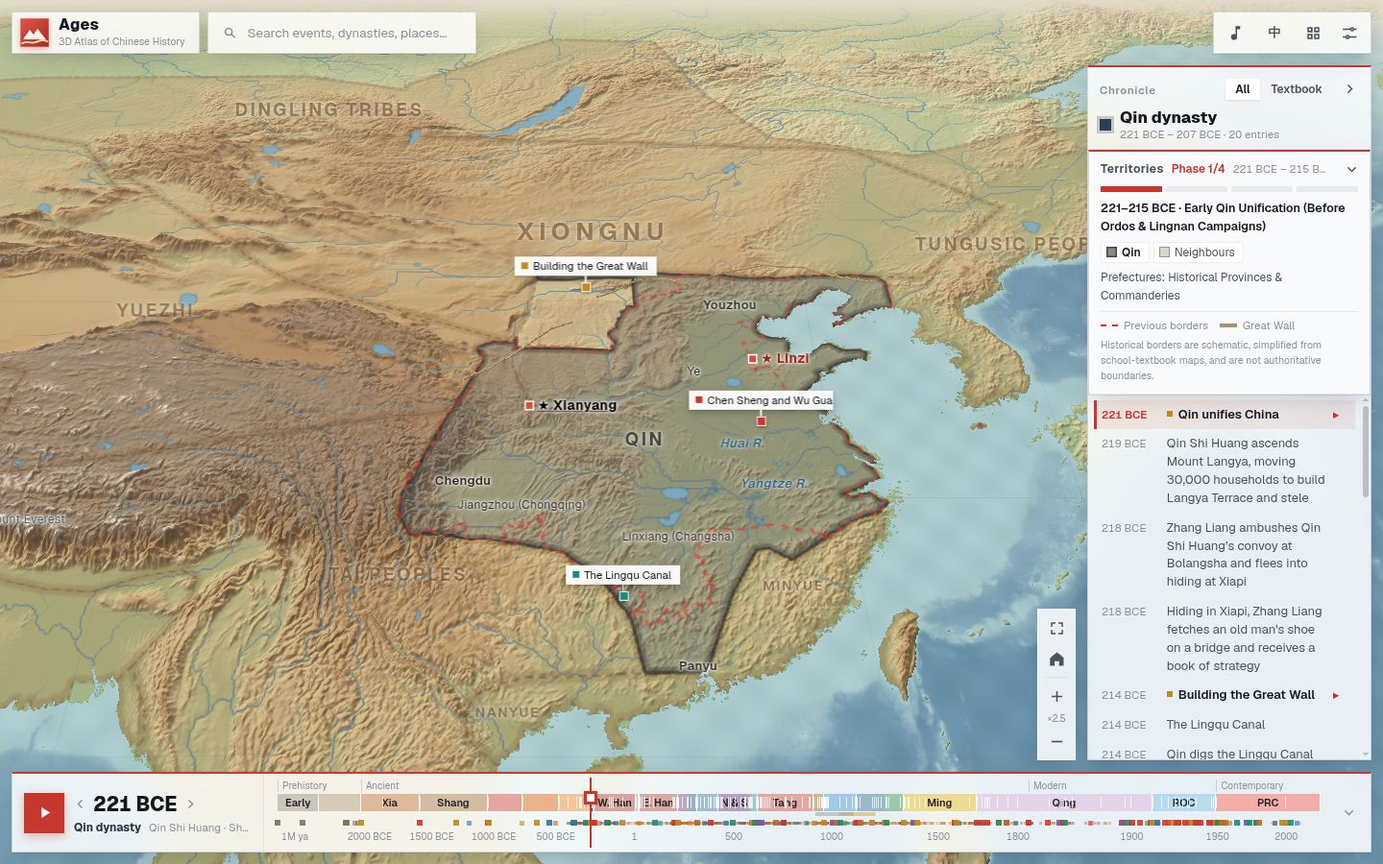
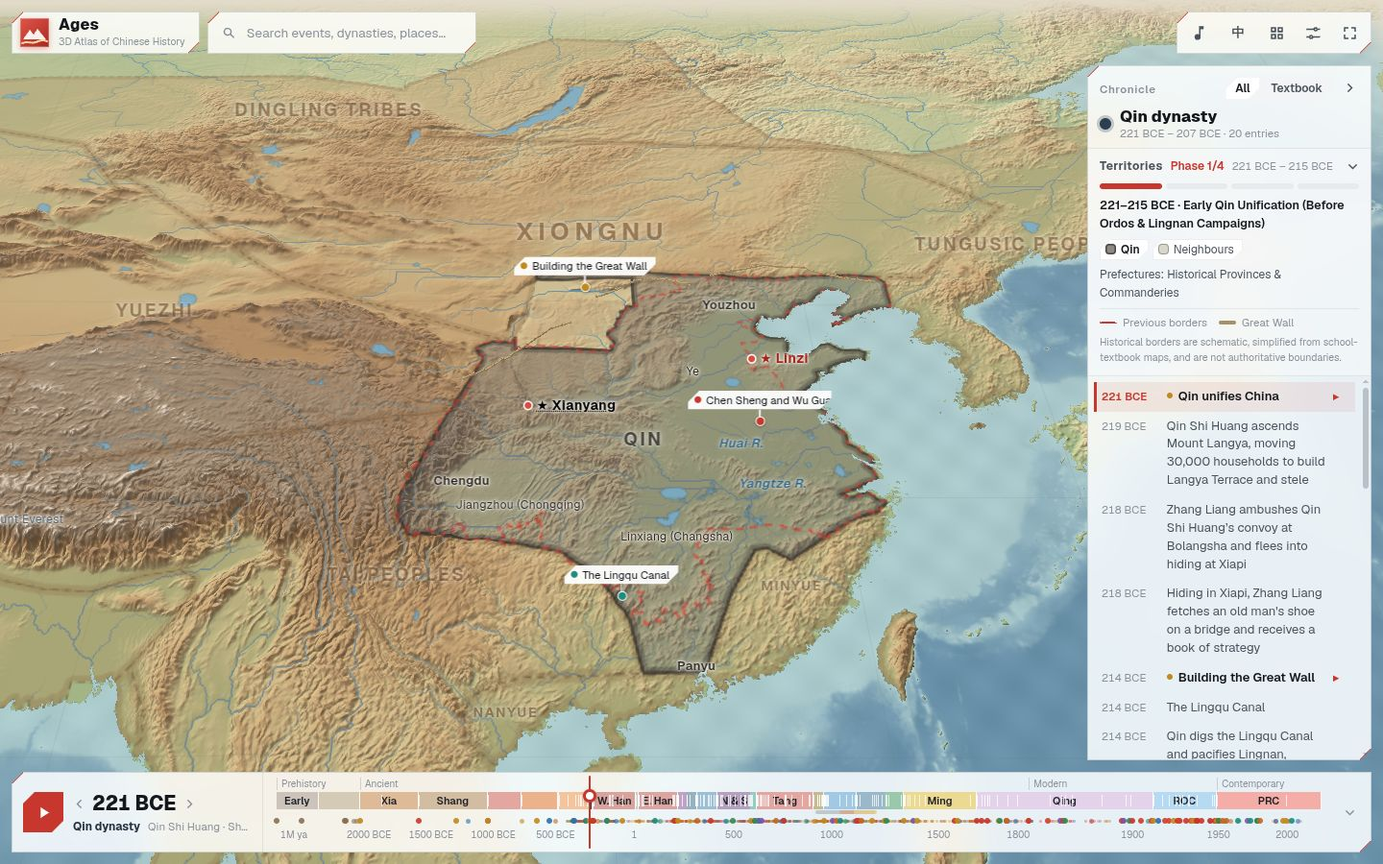
Cut-corner slab UI after pocket-planet; full screen moves to the toolbar, map zoom/home controls removed

diff --git a/src/client/styles.css b/src/client/styles.css
@@ -1,6 +1,6 @@
 /* 长河 · Ages — a clean, modern atlas interface.
-   The 3D map fills the window; everything else floats on it as light translucent panels (frosted white, soft shadow,
-   square-cut edges with a hairline frame and a vermilion top rule) so the terrain stays the subject. One accent — vermilion (朱) — marks what is selected, live or
+   The 3D map fills the window; everything else floats on it as light translucent panels (frosted white,
+   cut-corner slabs after pocket-planet, a hairline frame and vermilion lines on the cuts) so the terrain stays the subject. One accent — vermilion (朱) — marks what is selected, live or
    primary; dynasty colours come from the data. Layout: brand · search · period on the top left, tools on the top
    right, the chronicle (大事年表) down the right edge, the phase legend at the bottom left and the timeline across
    the bottom. Every panel folds away. Type: Geist for Latin and numbers, the system CJK sans for Chinese. */
@@ -30,6 +30,12 @@
   --shadow-s: 0 1px 0 rgba(15, 23, 42, 0.1), 0 3px 8px -2px rgba(15, 23, 42, 0.16);
   --r: 0;
   --r-s: 0;
+  --cut: 12px;
+  --edge: rgba(200, 55, 45, 0.75);
+  --pp-clip: polygon(var(--cut) 0, 100% 0, 100% calc(100% - var(--cut)), calc(100% - var(--cut)) 100%, 0 100%, 0 var(--cut));
+  --pp-cuts:
+    linear-gradient(135deg, transparent calc(50% - .5px), var(--edge) calc(50% - .5px) calc(50% + 1px), transparent calc(50% + 1px)) left top / var(--cut) var(--cut) no-repeat border-box,
+    linear-gradient(315deg, transparent calc(50% - .5px), var(--edge) calc(50% - .5px) calc(50% + 1px), transparent calc(50% + 1px)) right bottom / var(--cut) var(--cut) no-repeat border-box;
   --ease-out: cubic-bezier(.2, .8, .2, 1);
   --bar-h: 44px;
   --tl-h: 84px;
@@ -58,19 +64,29 @@ h2, h3 { font-weight: 700; }
 .stage canvas.gl { display: block; width: 100%; height: 100%; touch-action: none; outline: none; }
 .stage.picking canvas.gl { cursor: crosshair; }
 
-/* ================================================================ panels: frosted white */
-.brand, .search, .tools, .menu, .card, .reader, .drawer, .quiz, .tl, .modal-box, .caption, .hits, .hovertip, .chronicle, .legend-card {
-  background: var(--panel);
+/* ================================================================ panels: cut-corner slabs
+   The pocket-planet slab: top-left and bottom-right corners are cut at 45°, and a vermilion hairline traces each cut.
+   Panels whose children spill outside them (search results, the timeline's year flag) draw the slab on ::before so
+   nothing inside is clipped; everything else clips itself. */
+.brand, .search, .tools, .menu, .card, .reader, .drawer, .quiz, .tl, .modal-box, .caption, .hits, .hovertip, .chronicle {
+  --cut: 12px;
+  position: relative;
+  background: var(--pp-cuts), var(--panel);
   -webkit-backdrop-filter: blur(16px) saturate(1.5);
   backdrop-filter: blur(16px) saturate(1.5);
   border: 1px solid var(--rule-2);
   border-radius: 0;
-  box-shadow: var(--shadow);
+  clip-path: var(--pp-clip);
   color: var(--ink);
 }
-/* square-cut panels carry a vermilion rule along the top edge */
-.card, .reader, .drawer, .quiz, .modal-box, .chronicle:not(.folded), .legend-card, .tl { border-top: 2px solid var(--zhu); }
-.modal-box, .menu, .hits { background: rgba(255, 255, 255, 0.95); }
+.brand, .search, .tools, .tl, .hovertip { --cut: 9px; }
+.search, .tl { background: none; border: 0; clip-path: none; -webkit-backdrop-filter: none; backdrop-filter: none; isolation: isolate; }
+.search::before, .tl::before {
+  content: ''; position: absolute; inset: 0; z-index: -1; pointer-events: none;
+  background: var(--pp-cuts), var(--panel); border: 1px solid var(--rule-2); clip-path: var(--pp-clip);
+  -webkit-backdrop-filter: blur(16px) saturate(1.5); backdrop-filter: blur(16px) saturate(1.5);
+}
+.modal-box, .menu, .hits { background: var(--pp-cuts), rgba(255, 255, 255, 0.95); }
 
 /* ================================================================ labels on the map (default: dark relief) */
 .labels { position: absolute; inset: 0; pointer-events: none; overflow: hidden; contain: strict; }
@@ -84,7 +100,7 @@ h2, h3 { font-weight: 700; }
 .place.k-mountain { color: #cfc6b4; }
 .place.k-water { color: #9fcbe0; }
 .place.cap { color: #ffd59a; font-weight: 700; font-size: 14px; }
-.place.cap::before { content: ''; display: inline-block; width: 7px; height: 7px; margin-right: 5px; vertical-align: 1px; background: var(--zhu-hi); border-radius: 0; box-shadow: 0 0 0 1.5px #fff; }
+.place.cap::before { content: ''; display: inline-block; width: 7px; height: 7px; margin-right: 5px; vertical-align: 1px; background: var(--zhu-hi); border-radius: 50%; box-shadow: 0 0 0 1.5px #fff; }
 .place:hover { text-decoration: underline dotted; color: #fff; }
 .place.minor { font-size: 10.5px; opacity: 0.75; }
 .river { font-size: 11px; color: #9fcbe0; letter-spacing: 0.32em; opacity: 0.85; text-shadow: 0 0 2px #0c0e10, 0 0 5px rgba(0, 0, 0, 0.8); }
@@ -135,10 +151,10 @@ h2, h3 { font-weight: 700; }
   border-radius: 0; box-shadow: 0 1px 2px rgba(0, 0, 0, 0.18), 0 3px 10px rgba(0, 0, 0, 0.22); max-width: 13em; overflow: hidden; text-overflow: ellipsis;
   transition: transform 0.15s;
 }
-.pin .t::before { content: ''; flex: none; width: 7px; height: 7px; border-radius: 0; background: var(--k); }
+.pin .t::before { content: ''; flex: none; width: 7px; height: 7px; border-radius: 50%; background: var(--k); }
 .pin i { display: block; width: 1.5px; height: 9px; background: rgba(255, 255, 255, 0.9); }
 .pin i::after {
-  content: ''; display: block; width: 8px; height: 8px; background: var(--k); border: 1.5px solid #fff; border-radius: 0; transform: translate(-3.5px, 7px);
+  content: ''; display: block; width: 8px; height: 8px; background: var(--k); border: 1.5px solid #fff; border-radius: 50%; transform: translate(-3.5px, 7px);
   box-shadow: 0 1px 3px rgba(0, 0, 0, 0.45);
 }
 .pin.w3 .t { font-size: 10.5px; opacity: 0.86; }
@@ -177,7 +193,7 @@ h2, h3 { font-weight: 700; }
 }
 .cine.on { opacity: 1; }
 .cine h2 { margin: 0; font-size: clamp(30px, 5.5vw, 64px); font-weight: 800; letter-spacing: 0.18em; text-indent: 0.18em; }
-.cine h2::after { content: ''; display: block; width: 64px; height: 3px; margin: 16px auto 0; border-radius: 0; background: var(--zhu-hi); box-shadow: 0 0 12px rgba(219, 74, 63, 0.8); }
+.cine h2::after { content: ''; display: block; width: 64px; height: 3px; margin: 16px auto 0; border-radius: 2px; background: var(--zhu-hi); box-shadow: 0 0 12px rgba(219, 74, 63, 0.8); }
 .cine p { margin: 12px 0 0; font-size: clamp(12px, 1.4vw, 16px); letter-spacing: 0.24em; color: rgba(255, 255, 255, 0.85); font-variant-numeric: tabular-nums; }
 .cine.on h2 { animation: cine-in 1.4s ease-out both; }
 .cine.on p { animation: cine-in 1.4s 0.35s ease-out both; }
@@ -223,7 +239,7 @@ b.w { font-family: 'Linux Libertine', 'Times New Roman', serif; font-weight: 700
 }
 .chip.link { cursor: pointer; font: inherit; font-size: 12.5px; }
 .chip.link:hover { border-color: var(--zhu); color: var(--zhu); background: var(--zhu-fill); }
-.dot { display: inline-block; width: 10px; height: 10px; flex: none; border-radius: 0; background: var(--c); }
+.dot { display: inline-block; width: 10px; height: 10px; flex: none; border-radius: 50%; background: var(--c); }
 .seg { display: inline-flex; padding: 2px; gap: 2px; border-radius: 0; background: var(--well); }
 .seg button { border: 0; background: none; padding: 3px 10px; font-size: 12px; border-radius: 0; color: var(--ink-2); }
 .seg button:hover { color: var(--ink); }
@@ -288,7 +304,7 @@ b.w { font-family: 'Linux Libertine', 'Times New Roman', serif; font-weight: 700
 .switch-card:hover { color: var(--ink); background: var(--well-2); }
 .switch-card input { position: absolute; opacity: 0; pointer-events: none; }
 .sw-track { position: relative; flex: none; width: 30px; height: 18px; border-radius: 0; background: #c9ccd2; transition: background .15s; }
-.sw-track::after { content: ''; position: absolute; top: 2px; left: 2px; width: 14px; height: 14px; border-radius: 0; background: #fff; box-shadow: 0 1px 2px rgba(0, 0, 0, 0.3); transition: transform .15s; }
+.sw-track::after { content: ''; position: absolute; top: 2px; left: 2px; width: 14px; height: 14px; border-radius: 50%; background: #fff; box-shadow: 0 1px 2px rgba(0, 0, 0, 0.3); transition: transform .15s; }
 .switch-card input:checked ~ .sw-track { background: var(--zhu); }
 .switch-card input:checked ~ .sw-track::after { transform: translateX(12px); }
 .switch-card:has(input:checked) { color: var(--ink); }
@@ -315,23 +331,10 @@ b.w { font-family: 'Linux Libertine', 'Times New Roman', serif; font-weight: 700
 .hub-card:hover::after { color: var(--zhu); transform: translate(2px, -52%); }
 .jn { display: grid; grid-template-columns: 32px 1fr; column-gap: 10px; align-items: center; text-align: left; border: 0; border-radius: 0; background: none; padding: 8px 10px; color: var(--ink); }
 .jn:hover, .jn:focus-visible { background: var(--well); }
-.jn i { grid-row: span 2; width: 28px; height: 28px; display: grid; place-items: center; font-style: normal; font-size: 12px; font-weight: 700; color: #fff; background: var(--c); border-radius: 0; }
+.jn i { grid-row: span 2; width: 28px; height: 28px; display: grid; place-items: center; font-style: normal; font-size: 12px; font-weight: 700; color: #fff; background: var(--c); border-radius: 50%; }
 .jn b { font-size: 14px; font-weight: 600; }
 .jn small { font-size: 11.5px; color: var(--ink-3); }
 
-/* ================================================================ bottom right: map controls */
-.map-ctl {
-  position: absolute; right: var(--gap); bottom: calc(var(--tl-h) + var(--gap) * 2); z-index: 5; display: flex; flex-direction: column; align-items: center;
-  width: 40px; padding: 3px 0; border-radius: 0; color: var(--ink-2); background: var(--panel); -webkit-backdrop-filter: blur(16px); backdrop-filter: blur(16px);
-  box-shadow: var(--shadow); border: 1px solid rgba(255, 255, 255, 0.6); transition: right .3s var(--ease-out);
-}
-#app:has(.chronicle:not(.folded)) .map-ctl { right: calc(var(--ch-w) + var(--gap) * 2); }
-#app:has(.drawer:not([hidden])) .map-ctl { right: calc(max(var(--ch-w), 350px) + var(--gap) * 2); }
-#app:has(.reader:not([hidden])) .map-ctl { right: calc(460px + var(--gap) * 2); }
-.map-ctl .ib { width: 34px; height: 32px; border-radius: 0; }
-.map-ctl .sep { width: 22px; height: 1px; margin: 3px 0; background: var(--rule); }
-.z-lbl { font-size: 10px; color: var(--ink-3); padding: 1px 0; text-align: center; font-variant-numeric: tabular-nums; }
-.story-on .map-ctl { opacity: 0; pointer-events: none; }
 
 /* ================================================================ chronicle (大事年表), right edge */
 .chronicle {
@@ -354,7 +357,7 @@ b.w { font-family: 'Linux Libertine', 'Times New Roman', serif; font-weight: 700
 .ch-y { font-size: 11.5px; color: var(--ink-3); font-variant-numeric: tabular-nums; white-space: nowrap; }
 .ch-t { min-width: 0; }
 .ch-list li.w1 .ch-t { color: var(--ink); font-weight: 600; }
-.ch-list li.w1 .ch-t::before { content: ''; display: inline-block; width: 6px; height: 6px; margin-right: 6px; vertical-align: 2px; border-radius: 0; background: var(--k); }
+.ch-list li.w1 .ch-t::before { content: ''; display: inline-block; width: 6px; height: 6px; margin-right: 6px; vertical-align: 2px; border-radius: 50%; background: var(--k); }
 .ch-m, .ch-s { font-style: normal; font-size: 9px; color: var(--ink-3); }
 .ch-m { color: var(--k-diplomacy); }
 .ch-s { color: var(--zhu); }
@@ -384,13 +387,13 @@ b.w { font-family: 'Linux Libertine', 'Times New Roman', serif; font-weight: 700
 .lg-fold { width: 26px !important; height: 26px !important; }
 .lg-body { overflow: auto; padding: 0 12px 10px; min-height: 0; }
 .lg-dots { display: flex; gap: 4px; margin: 0 0 8px; }
-.lg-dots button { flex: 1; height: 6px; padding: 0; border: 0; border-radius: 0; background: var(--well-2); transition: background .15s; }
+.lg-dots button { flex: 1; height: 6px; padding: 0; border: 0; border-radius: 3px; background: var(--well-2); transition: background .15s; }
 .lg-dots button:hover { background: #c9ccd2; }
 .lg-dots button.on { background: var(--zhu); }
 .lg-title { margin: 0 0 6px; font-size: 12.5px; font-weight: 600; line-height: 1.5; color: var(--ink); }
 .lg-pols { display: flex; flex-wrap: wrap; gap: 4px; margin-bottom: 6px; }
 .lg-pol { display: inline-flex; align-items: center; gap: 5px; padding: 2px 8px 2px 5px; border: 1px solid var(--rule); border-radius: 0; background: var(--panel-solid); font-size: 12px; color: var(--ink-2); }
-.lg-pol i { width: 11px; height: 11px; border-radius: 0; background: color-mix(in srgb, var(--c) 70%, #fff); box-shadow: inset 0 0 0 1.5px color-mix(in srgb, var(--c) 80%, #000); }
+.lg-pol i { width: 11px; height: 11px; border-radius: 4px; background: color-mix(in srgb, var(--c) 70%, #fff); box-shadow: inset 0 0 0 1.5px color-mix(in srgb, var(--c) 80%, #000); }
 .lg-pol.r-main { color: var(--ink); font-weight: 600; }
 .lg-pol.r-protectorate i, .lg-pol.r-occupied i { background: repeating-linear-gradient(45deg, color-mix(in srgb, var(--c) 80%, #000) 0 1.5px, color-mix(in srgb, var(--c) 30%, #fff) 1.5px 4px); }
 .lg-pol.r-neighbor i { background: #d9d6cc; box-shadow: inset 0 0 0 1px #9a9a8a; }
@@ -399,7 +402,7 @@ b.w { font-family: 'Linux Libertine', 'Times New Roman', serif; font-weight: 700
 .lg-note.open { display: block; }
 .lg-keys { display: flex; flex-wrap: wrap; gap: 4px 12px; padding-top: 6px; border-top: 1px solid var(--rule); font-size: 11.5px; color: var(--ink-3); }
 .lg-k { display: inline-flex; align-items: center; gap: 6px; }
-.lg-k i { width: 18px; height: 0; border-top: 2.5px solid var(--c); border-radius: 0; }
+.lg-k i { width: 18px; height: 0; border-top: 2.5px solid var(--c); border-radius: 2px; }
 .lg-k.ghost i { border-top: 2px dashed var(--zhu); }
 .lg-k.k-wall i { border-top: 4px solid var(--c); }
 .lg-k.k-sea i { border-top-style: dotted; }
@@ -429,7 +432,7 @@ b.w { font-family: 'Linux Libertine', 'Times New Roman', serif; font-weight: 700
 .cat-idx { font-size: 11px; color: var(--ink-3); font-variant-numeric: tabular-nums; }
 .cat-idx small { font-size: 11px; }
 .card-nav { position: absolute; right: 8px; top: 8px; display: flex; gap: 4px; }
-.card-nav .ib { width: 30px; height: 30px; border-radius: 0; background: rgba(255, 255, 255, 0.9); color: var(--ink-2); box-shadow: var(--shadow-s); }
+.card-nav .ib { width: 30px; height: 30px; border-radius: 50%; background: rgba(255, 255, 255, 0.9); color: var(--ink-2); box-shadow: var(--shadow-s); }
 .card-nav .ib:hover { background: #fff; color: var(--ink); }
 .card-nav .ib .ic { width: 16px; height: 16px; }
 .card-body { overflow: auto; padding: 14px 18px 16px; min-height: 0; }
@@ -454,7 +457,7 @@ b.w { font-family: 'Linux Libertine', 'Times New Roman', serif; font-weight: 700
 .stats dt { font-size: 11px; color: var(--ink-3); margin-bottom: 3px; }
 .stats dd { margin: 0; font-size: 14.5px; font-weight: 700; color: var(--ink); font-variant-numeric: tabular-nums; overflow: hidden; text-overflow: ellipsis; white-space: nowrap; }
 .era-link { display: inline-flex; align-items: center; gap: 7px; border: 0; background: none; padding: 0; font: inherit; color: inherit; max-width: 100%; }
-.era-link i { width: 9px; height: 9px; flex: none; background: var(--c); border-radius: 0; }
+.era-link i { width: 9px; height: 9px; flex: none; background: var(--c); border-radius: 50%; }
 .era-link:hover { color: var(--zhu); }
 .acts { display: flex; flex-wrap: wrap; gap: 6px; margin: 12px 0 4px; }
 .acts .btn { height: 32px; padding: 0 11px; gap: 6px; }
@@ -542,7 +545,7 @@ i.seen { color: var(--k-economy); font-style: normal; margin-left: auto; }
 .unit.open .u-n { background: var(--zhu); color: #fff; }
 .u-t { flex: 1; line-height: 1.4; font-size: 13.5px; }
 .u-p { font-size: 11px; color: var(--ink-3); font-variant-numeric: tabular-nums; }
-.u-head .bar { position: absolute; left: 40px; right: 6px; bottom: 5px; height: 3px; border-radius: 0; background: linear-gradient(90deg, var(--ok) calc(var(--p) * 100%), var(--well-2) 0); }
+.u-head .bar { position: absolute; left: 40px; right: 6px; bottom: 5px; height: 3px; border-radius: 2px; background: linear-gradient(90deg, var(--ok) calc(var(--p) * 100%), var(--well-2) 0); }
 .u-evs { list-style: none; margin: 0 0 10px; padding: 0 0 0 30px; }
 
 /* ================================================================ quiz */
@@ -597,7 +600,7 @@ i.seen { color: var(--k-economy); font-style: normal; margin-left: auto; }
   padding: 0 8px 0 12px; gap: 14px; user-select: none; -webkit-user-select: none;
 }
 .tl-read { display: flex; align-items: center; gap: 10px; width: 250px; flex: none; padding-right: 14px; border-right: 1px solid var(--rule); }
-.tl-play { width: 42px !important; height: 42px !important; border-radius: 0; flex: none; color: #fff !important; background: var(--zhu) !important; box-shadow: 0 3px 10px rgba(200, 55, 45, 0.35); }
+.tl-play { width: 42px !important; height: 42px !important; border-radius: 0 !important; flex: none; color: #fff !important; background: var(--zhu) !important; box-shadow: 0 3px 10px rgba(200, 55, 45, 0.35); }
 .tl-play:hover { background: var(--zhu-hi) !important; }
 .tl-txt { min-width: 0; }
 .tl-yr { display: flex; align-items: center; gap: 0; margin-left: -6px; }
@@ -619,7 +622,7 @@ i.seen { color: var(--k-economy); font-style: normal; margin-left: auto; }
   border-right: 1px solid rgba(255, 255, 255, 0.9); overflow: hidden; display: grid; place-items: center; transition: background .15s;
 }
 .tl-band span { font-size: 11px; font-weight: 600; color: #1d2026; white-space: nowrap; }
-.tl-band.lane1 { top: 19px; height: 4px; opacity: 0.8; border-radius: 0; }
+.tl-band.lane1 { top: 19px; height: 4px; opacity: 0.8; border-radius: 2px; }
 .tl-band.lane1 span { display: none; }
 .tl-band:hover { background: color-mix(in srgb, var(--c) 62%, #fff); }
 .tl-band.cur { background: var(--c); }
@@ -629,14 +632,14 @@ i.seen { color: var(--k-economy); font-style: normal; margin-left: auto; }
 .tl-phases { position: absolute; left: 0; right: 0; top: 21px; height: 18px; pointer-events: none; }
 .tl-phases i { position: absolute; top: 3px; bottom: 3px; width: 1px; background: rgba(255, 255, 255, 0.75); }
 .tl-dots { position: absolute; left: 0; right: 0; top: 47px; height: 9px; }
-.tl-dot { position: absolute; top: 1px; width: 6px; height: 6px; margin-left: -3px; border: 0; padding: 0; border-radius: 0; background: var(--k); opacity: 0.9; }
+.tl-dot { position: absolute; top: 1px; width: 6px; height: 6px; margin-left: -3px; border: 0; padding: 0; border-radius: 50%; background: var(--k); opacity: 0.9; }
 .tl-dot.w2 { width: 5px; height: 5px; margin-left: -2.5px; top: 1.5px; opacity: 0.6; }
 .tl-dot.w3 { width: 3px; height: 3px; margin-left: -1.5px; top: 2.5px; opacity: 0.35; }
 .tl-dot:hover, .tl-dot.sel { opacity: 1; transform: scale(1.8); box-shadow: 0 0 0 1.5px #fff; z-index: 1; }
 .tl-axis { position: absolute; left: 0; right: 0; top: 59px; height: 12px; }
 .tl-axis span { position: absolute; transform: translateX(-50%); font-size: 10px; color: var(--ink-3); white-space: nowrap; font-variant-numeric: tabular-nums; }
-.tl-thumb { position: absolute; top: 4px; bottom: 4px; width: 2px; margin-left: -1px; background: var(--zhu); border-radius: 0; pointer-events: none; }
-.tl-thumb i { position: absolute; top: 14px; left: -6px; width: 14px; height: 14px; background: #fff; border: 3px solid var(--zhu); border-radius: 0; box-shadow: 0 1px 4px rgba(0, 0, 0, 0.3); }
+.tl-thumb { position: absolute; top: 4px; bottom: 4px; width: 2px; margin-left: -1px; background: var(--zhu); border-radius: 1px; pointer-events: none; }
+.tl-thumb i { position: absolute; top: 14px; left: -6px; width: 14px; height: 14px; background: #fff; border: 3px solid var(--zhu); border-radius: 50%; box-shadow: 0 1px 4px rgba(0, 0, 0, 0.3); }
 .tl-flag {
   position: absolute; bottom: calc(100% + 10px); left: 0; transform: translateX(-50%); padding: 4px 10px; border-radius: 0; background: var(--ink); color: #fff;
   font-size: 12px; font-weight: 600; white-space: nowrap; font-variant-numeric: tabular-nums; box-shadow: var(--shadow-s);
@@ -667,7 +670,7 @@ i.seen { color: var(--k-economy); font-style: normal; margin-left: auto; }
 .help ul li::marker { color: var(--zhu); }
 .help .legend { display: flex; flex-wrap: wrap; gap: 8px 14px; padding: 12px 22px; font-size: 12.5px; color: var(--ink-2); }
 .help .lg { display: inline-flex; align-items: center; gap: 6px; }
-.help .lg i { width: 9px; height: 9px; border-radius: 0; background: var(--k); }
+.help .lg i { width: 9px; height: 9px; border-radius: 50%; background: var(--k); }
 .help .note { margin: 6px 22px; font-size: 12.5px; padding: 10px 12px; background: rgba(201, 154, 60, 0.12); border-radius: 0; line-height: 1.7; color: var(--ink-2); }
 .help .small { margin: 8px 22px; font-size: 11.5px; color: var(--ink-3); line-height: 1.65; }
 .boot { position: absolute; inset: 0; display: grid; place-content: center; gap: 16px; justify-items: center; z-index: 30; background: radial-gradient(ellipse at 50% 40%, #262b33 0%, #111418 75%); transition: opacity 0.6s; }
@@ -677,12 +680,23 @@ i.seen { color: var(--k-economy); font-style: normal; margin-left: auto; }
   background: linear-gradient(140deg, #e0564a, #a8281f); box-shadow: 0 10px 40px rgba(200, 55, 45, 0.45), inset 0 0 0 1px rgba(255, 255, 255, 0.2);
 }
 .boot-name { font-size: 13px; font-weight: 600; letter-spacing: .5em; color: rgba(255, 255, 255, 0.75); text-indent: .5em; }
-.boot-bar { width: 160px; height: 3px; border-radius: 0; background: rgba(255, 255, 255, 0.12); overflow: hidden; }
-.boot-bar i { display: block; width: 40%; height: 100%; border-radius: 0; background: var(--zhu-hi); animation: boot 1.1s infinite ease-in-out; }
+.boot-bar { width: 160px; height: 3px; border-radius: 2px; background: rgba(255, 255, 255, 0.12); overflow: hidden; }
+.boot-bar i { display: block; width: 40%; height: 100%; border-radius: 2px; background: var(--zhu-hi); animation: boot 1.1s infinite ease-in-out; }
 @keyframes boot { from { transform: translateX(-100%); } to { transform: translateX(250%); } }
 .nogl { position: absolute; inset: 0; display: grid; place-items: center; padding: 24px; text-align: center; font-size: 15px; color: #e6e8eb; }
 
 /* ================================================================ narrower screens */
+/* ================================================================ small cut-corner slabs: buttons, chips, map labels
+   (after the component rules so their background shorthands don't drop the cut lines) */
+.btn, .chip, .type-chip, .badge, .lg-pol, .pin .t, .work, .tag, .tl-play, .ib, .hub-card, .opt, .qz-mode, .sw, .stats > div, .ht, .seg, .seg button, .tabs, .tabs button {
+  --cut: 6px; border-radius: 0 !important; clip-path: var(--pp-clip);
+}
+.ib, .seg button, .tabs button, .ht { --cut: 5px; }
+.btn, .hub-card, .opt, .qz-mode, .sw, .lg-pol, .chip { background-image: var(--pp-cuts); --edge: var(--rule-2); }
+.btn:focus-visible, .chip:focus-visible, .ib:focus-visible, .hub-card:focus-visible, .opt:focus-visible, .ht:focus-visible, .seg button:focus-visible, .tabs button:focus-visible { outline-offset: -2px; }
+.btn.primary, .sw.on, .qz-mode.on, .opt.no, .lg-pol:hover, .chip.link:hover { --edge: var(--zhu); }
+.opt.ok { --edge: var(--ok); }
+
 @media (max-width: 1180px) {
   :root { --ch-w: 280px; }
   .search { width: 230px; }
@@ -702,7 +716,6 @@ i.seen { color: var(--k-economy); font-style: normal; margin-left: auto; }
   .b-music .mu-t { display: none; }
   .tools .ib { width: 34px; }
   .menu { width: calc(100vw - 2 * var(--gap)); max-height: calc(100vh - 220px); }
-  .map-ctl { display: none; }
   .chronicle:not(.folded) { left: var(--gap); width: auto; z-index: 8; }
   .chronicle.folded { right: var(--gap); }
   .tl { flex-wrap: wrap; gap: 0 8px; padding: 6px 8px 0 8px; }

diff --git a/src/client/main.ts b/src/client/main.ts
@@ -52,7 +52,6 @@ class App {
   ready = false;
   private langBtn!: HTMLButtonElement;
   private bar!: HTMLElement;
-  private zoomLbl!: HTMLElement;
 
   constructor(private root: HTMLElement, stage: HTMLElement) {
     this.atlas = new Atlas(stage, lowfx);
@@ -191,27 +190,20 @@ class App {
     this.chronicle.mount(this.legend.el);
     this.timeline.onRender = y => { this.chronicle.update(y); this.legend.setYear(y); };
 
-    // top-right: one toolbar slab (search · language · study hall · map settings)
+    // top-right: one toolbar slab (music · language · study hall · map settings · full screen)
     this.langBtn = h('button', { type: 'button', class: 'ib lang', 'data-act': 'lang', onclick: () => setLang(lang === 'zh' ? 'en' : 'zh') });
     const hubBtn = iconBtn('grid', t('hub'), () => this.pop(this.hub.el.hidden ? 'hub' : null), 'b-hub');
     const setBtn = iconBtn('sliders', t('settings'), () => this.pop(this.settings.el.hidden ? 'settings' : null), 'b-settings');
-    const tools = h('div', { class: 'tools' }, this.music.el, this.langBtn, hubBtn, setBtn);
+    const fullBtn = iconBtn('full', t('fullscreen'), () => { if (document.fullscreenElement) void document.exitFullscreen(); else void document.documentElement.requestFullscreen?.().catch(() => {}); }, 'b-full');
+    fullBtn.hidden = !document.fullscreenEnabled;
+    document.addEventListener('fullscreenchange', () => fullBtn.classList.toggle('on', !!document.fullscreenElement));
+    const tools = h('div', { class: 'tools' }, this.music.el, this.langBtn, hubBtn, setBtn, fullBtn);
     const top = h('div', { class: 'top-r' }, tools, this.hub.el, this.settings.el);
     document.addEventListener('pointerdown', e => {
       if ((!this.hub.el.hidden || !this.settings.el.hidden) && !top.contains(e.target as Node)) this.pop(null);
     });
 
-    // bottom right: one map-control pill (full screen · home · zoom); help lives in the study-hall menu
-    this.zoomLbl = h('span', { class: 'z-lbl' });
-    const corner = h('div', { class: 'corner-r map-ctl' },
-      iconBtn('full', t('fullscreen'), () => { if (document.fullscreenElement) void document.exitFullscreen(); else void document.documentElement.requestFullscreen?.().catch(() => {}); }, 'b-full'),
-      iconBtn('home', t('home'), () => this.atlas.home(), 'b-home'),
-      h('i', { class: 'sep' }),
-      iconBtn('plus', t('zoomIn'), () => this.atlas.view.zoomBy(0.62), 'z-in'), this.zoomLbl, iconBtn('minus', t('zoomOut'), () => this.atlas.view.zoomBy(1.6), 'z-out'));
-    this.atlas.view.onFrame(() => { const z = 120 / this.atlas.view.pose().dist; const s = '×' + (z < 10 ? z.toFixed(1) : Math.round(z)); if (this.zoomLbl.textContent !== s) this.zoomLbl.textContent = s; });
-
-    this.root.append(this.bar, top, this.chronicle.el, this.learn.el, this.card.el, this.reader.el, this.quiz.el, this.caption.el, this.timeline.el, this.help.el,
-      corner);
+    this.root.append(this.bar, top, this.chronicle.el, this.learn.el, this.card.el, this.reader.el, this.quiz.el, this.caption.el, this.timeline.el, this.help.el);
     this.relabel();
     onLang(l => this.onLang(l));
 
@@ -435,7 +427,7 @@ class App {
     const b = this.bar.querySelector('.brand-t')!;
     b.querySelector('span')!.textContent = t('brandSub');
     const set = (cls: string, k: Parameters<typeof t>[0]) => { const el = this.root.querySelector<HTMLElement>(cls); if (el) { el.title = t(k); el.setAttribute('aria-label', t(k)); } };
-    set('.b-hub', 'hub'); set('.b-settings', 'settings'); set('.b-home', 'home'); set('.b-full', 'fullscreen'); set('.z-in', 'zoomIn'); set('.z-out', 'zoomOut');
+    set('.b-hub', 'hub'); set('.b-settings', 'settings'); set('.b-full', 'fullscreen');
     document.title = lang === 'zh' ? '长河 · 3D 中国历史地图' : 'Ages · 3D Atlas of Chinese History';
   }
 

diff --git a/src/client/lib/i18n.ts b/src/client/lib/i18n.ts
@@ -55,7 +55,6 @@ const S = {
   person: { zh: '人物', en: 'Person' },
   journey: { zh: '行迹', en: 'Journey' },
   help: { zh: '帮助', en: 'Help' },
-  home: { zh: '回到全图', en: 'Reset view' },
   territory: { zh: '疆域', en: 'Territories' },
   places: { zh: '地名', en: 'Places' },
   events: { zh: '事件', en: 'Events' },
@@ -136,8 +135,6 @@ const S = {
   sInk: { zh: '水墨', en: 'Ink' },
   sPaper: { zh: '地形', en: 'Relief' },
   sPlain: { zh: '素图', en: 'Plain' },
-  zoomIn: { zh: '放大', en: 'Zoom in' },
-  zoomOut: { zh: '缩小', en: 'Zoom out' },
   fullscreen: { zh: '全屏', en: 'Full screen' },
   fold: { zh: '收起时间轴', en: 'Collapse timeline' },
   unfold: { zh: '展开时间轴', en: 'Expand timeline' },

diff --git a/docs/product/spec.md b/docs/product/spec.md
@@ -27,7 +27,7 @@ Chinese middle-school (grades 7–8, 统编版 textbooks) and high-school studen
 | Learn | Books → units → events with progress bars; opening an event closes the drawer on phones |
 | Quiz | History mode: 9 questions per round from the chosen book: when / where (map click, graded by km) / order; best score saved. Ancient-places mode: 10 period place names to find on the map with labels hidden, 0–100 points by distance and a final rank. Every answer is revealed on the map |
 | Search | Events, eras and places, matched in both languages; `/` focuses |
-| Menus | Hub (learn, quiz, journeys, help) and Settings (map style paper / ink / plain, layers, narration, quality); guqin music toggle; one toolbar, foldable timeline |
+| Menus | Hub (learn, quiz, journeys, help) and Settings (map style paper / ink / plain, layers, narration, quality); guqin music toggle and full screen in one cut-corner toolbar (zoom by wheel or pinch); foldable timeline |
 | Layers | Territory, place names, event pins, 3D models |
 | Help | Controls, category legend, disclaimer, credits, phase 2 note |
 | Deep links | `#e=`, `#y=`, `#p=`, `#person=`, `#j=`, `&lang=`, also as query parameters (kept up to date as you browse, so the address bar is always shareable) |
